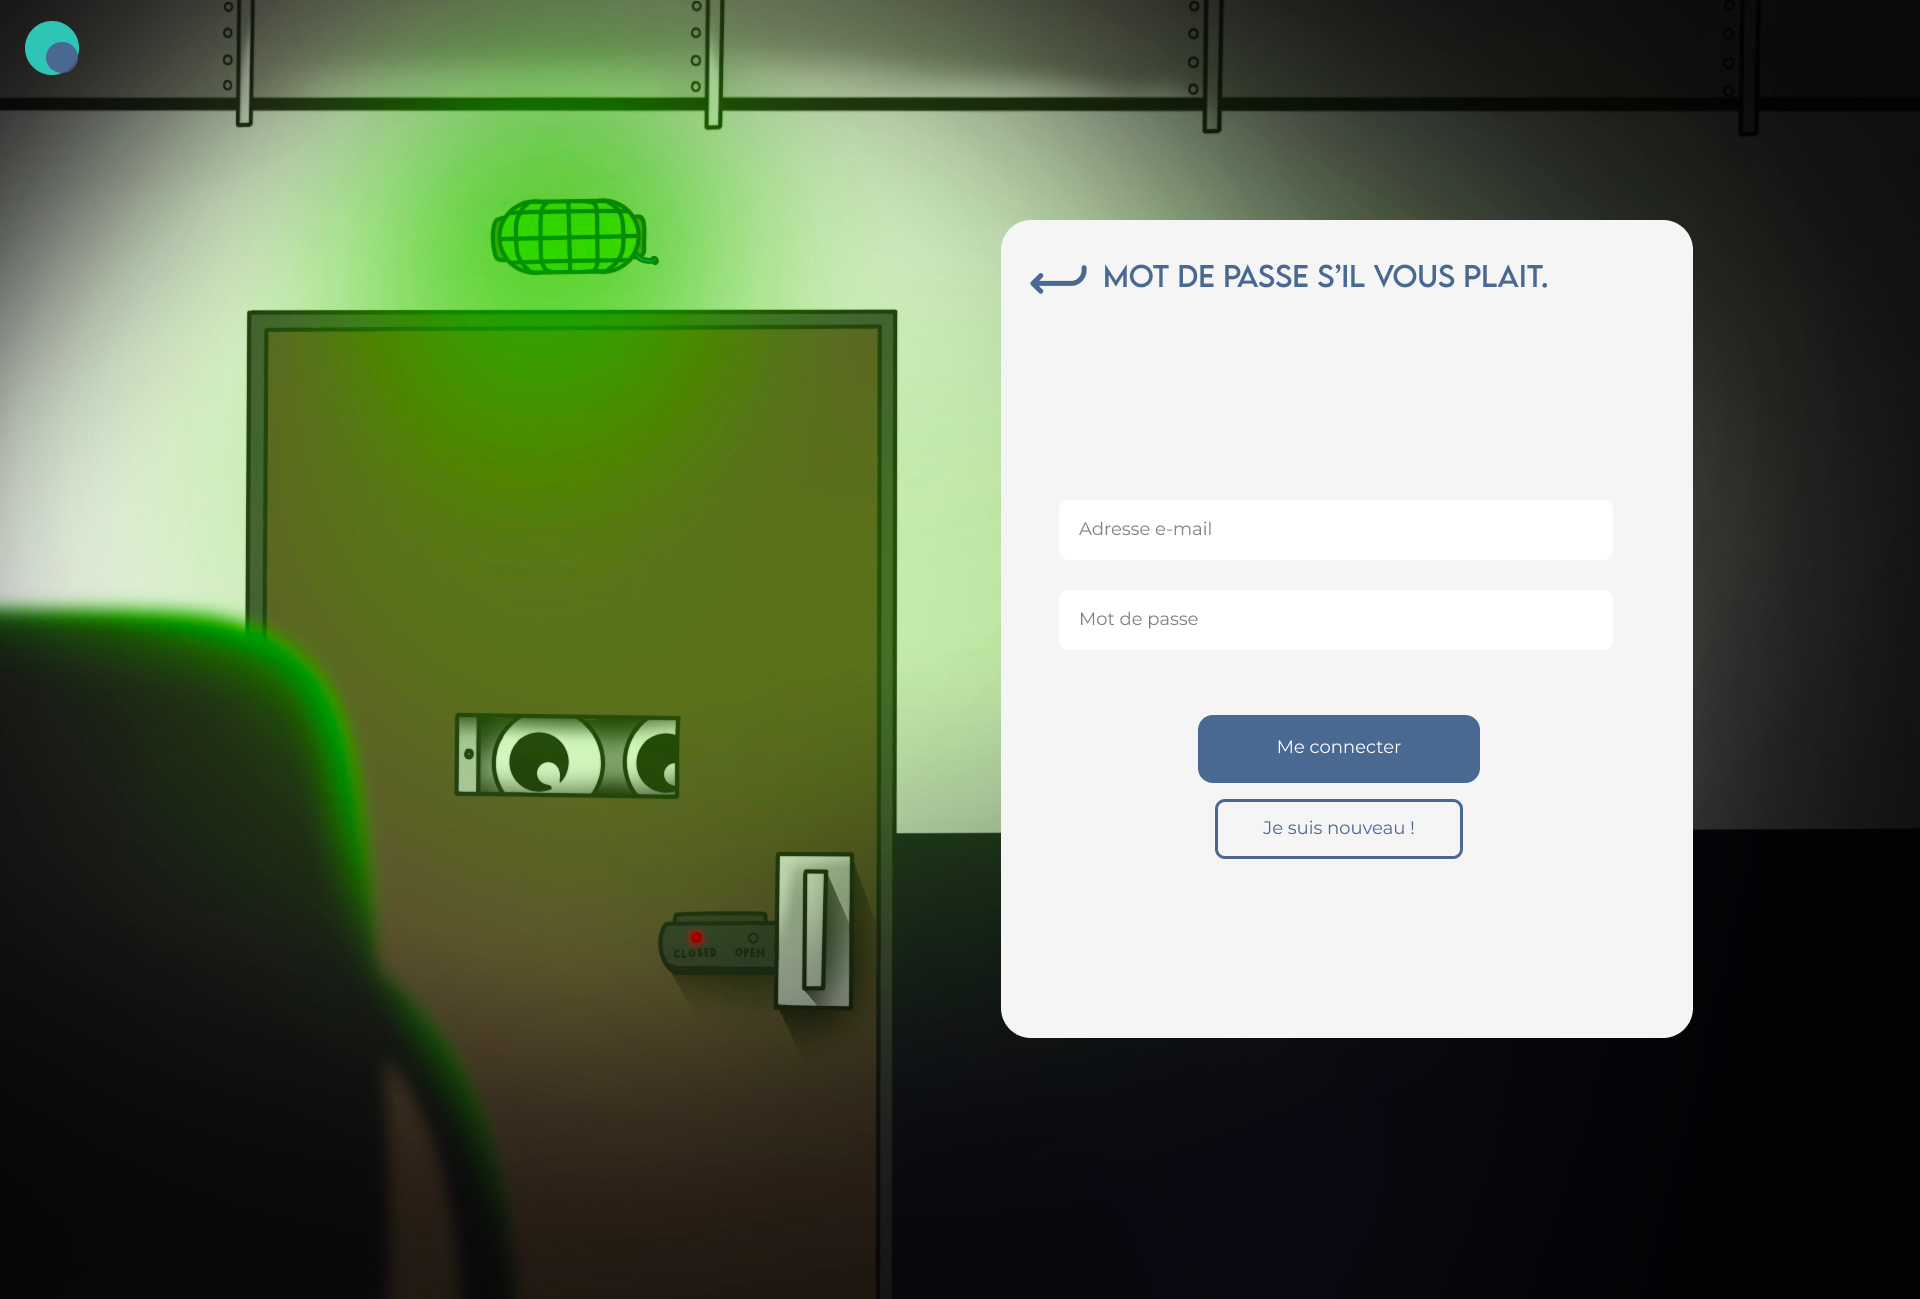
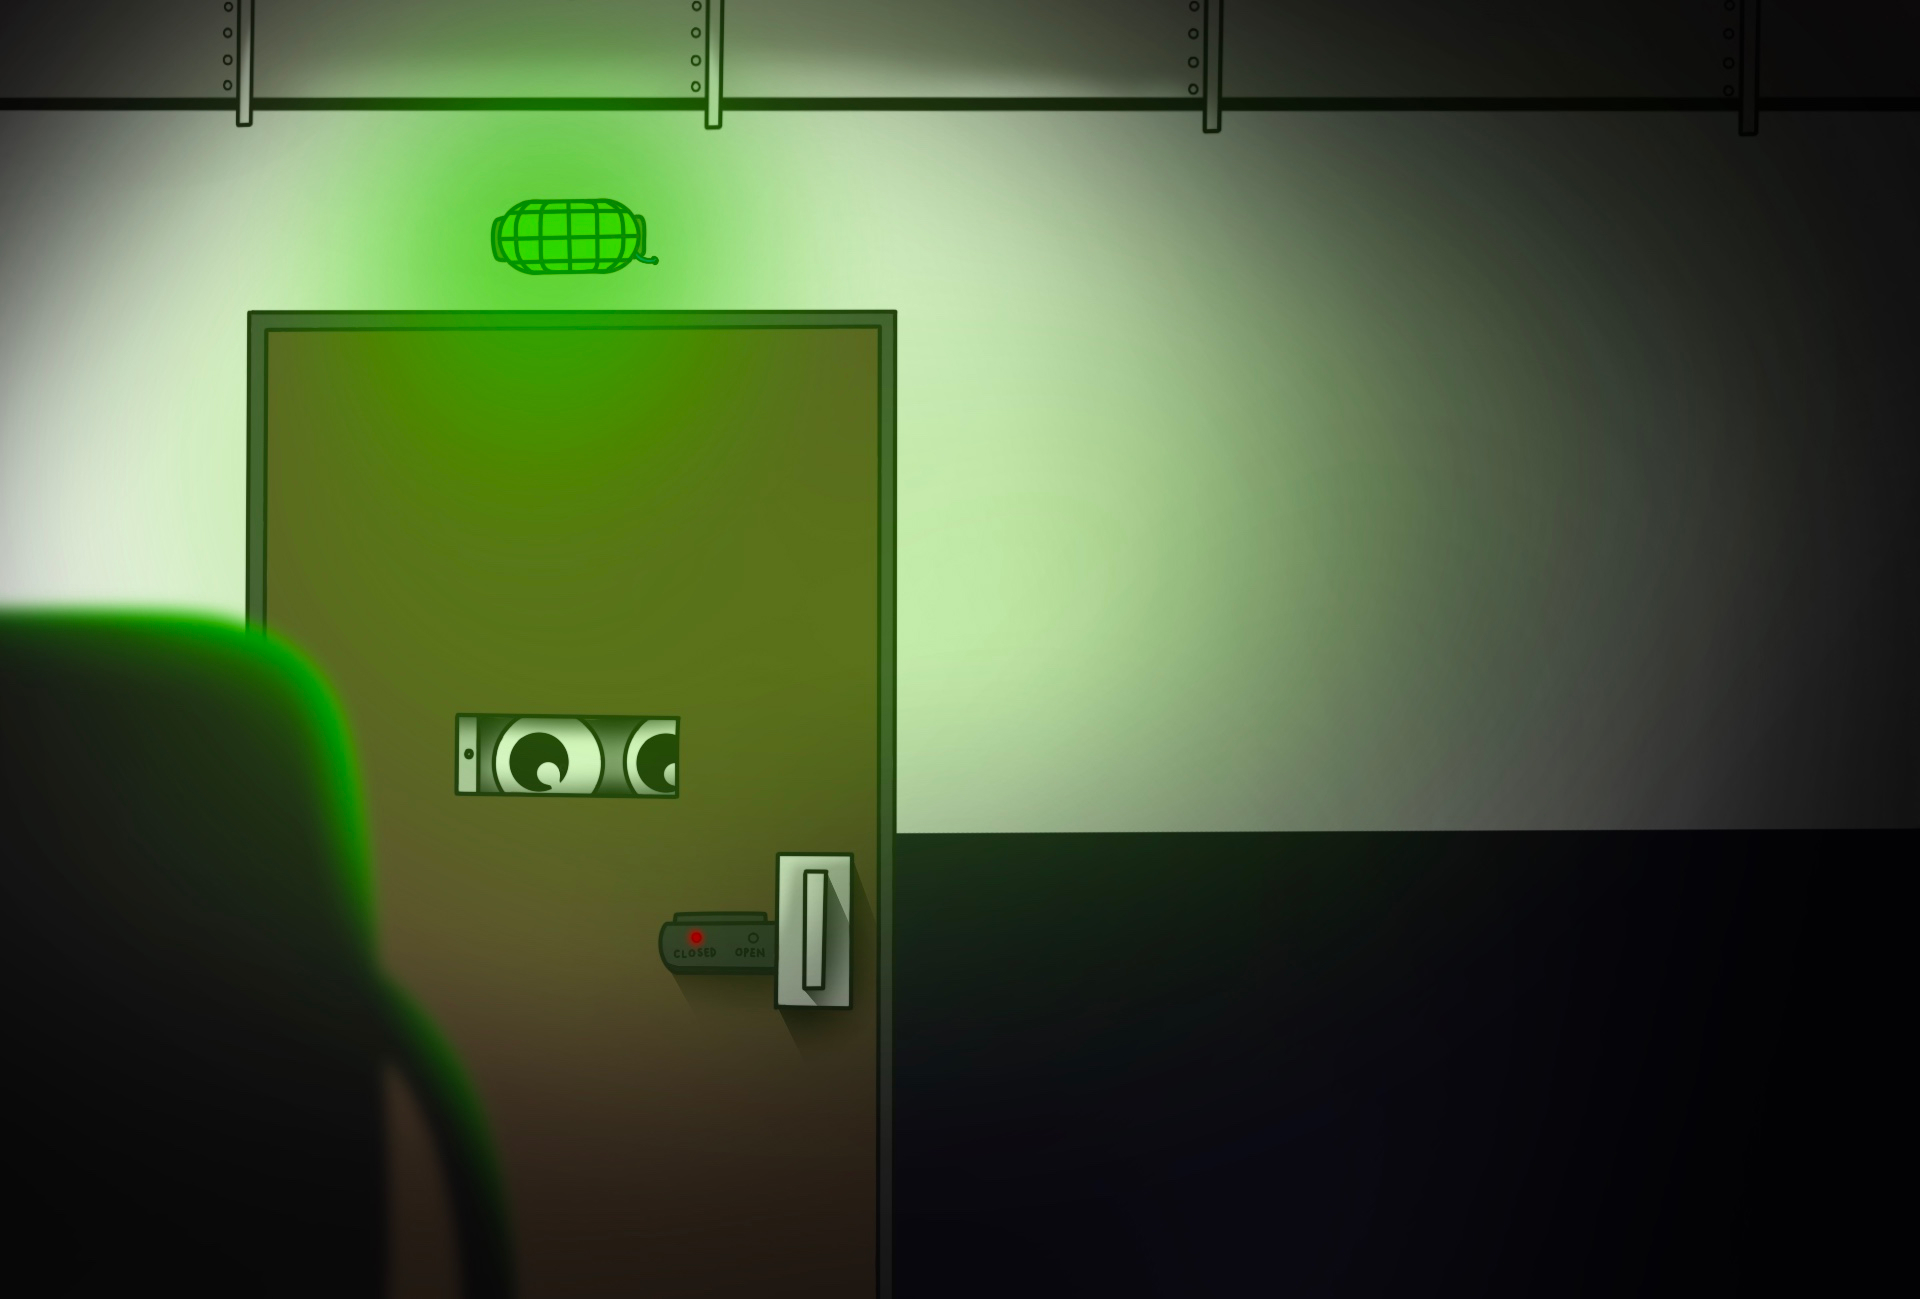
maj

Changed region(s): [[0.5, 0.154, 0.9062, 0.8006], [0.0, 0.0, 0.0625, 0.0616]]

diff --git a/assets/style_sign-in.css b/assets/style_sign-in.css
@@ -34,9 +34,15 @@ body {
     background-color: #2ec4b6;
     position: relative;
 }
+#login {
+    height: 100%;
+    width: 100%;
+    background-color: #000000;
+    position: relative;
+}
 
 .form-bloc {
-    height: 50em;
+    max-height: 50em;
     width: 43.125em;
     background-color: #f5f5f5;
     border-radius: 30px;;
@@ -48,11 +54,17 @@ body {
     left:10px;
     height: 60px;
     width: 60px;
+    z-index: 2;
 }
 
 #illustration {
     position: absolute;
     left: 10%;
+}
+#illustration2 {
+    position: absolute;
+    z-index: 1;
+    height: 100%;
 }
 
 input {
@@ -62,6 +74,13 @@ input {
     height: 60px;
     font-family: 'Montserrat', sans-serif;
     padding-left: 15px;
+    transition: all ease-in 0.2s ;
+    
+}
+input:hover {
+    transform: scale(105%);
+    -webkit-box-shadow: 0px 5px 22px -7px rgba(0,0,0,0.72); 
+    box-shadow: 0px 5px 22px -7px rgba(0,0,0,0.72);
 }
 
 input:focus {
@@ -98,7 +117,7 @@ p {
     border: solid 3px #496992;
     border-radius: 15px;
     color: #496992;
-    background:none;
+    background:#2ec4b6;
     transform: scale(110%);
 }
 .button2 {
@@ -118,4 +137,7 @@ p {
 }
 strong {
     text-decoration: underline;
+}
+a {
+    text-decoration: none;
 }

diff --git a/assets/style.css b/assets/style.css
@@ -18,10 +18,8 @@ nav {
     background: white;
 }
 #profile-picture {
-    height: 30px;
-    width: 30px;
-    border-radius: 50%;
-    background: gray;
+    height: 40px;
+    width: 40px;
 }
 .color1 {
     color: #496992;
@@ -92,6 +90,9 @@ footer {
     border-top-right-radius: 15px;
     border-top-left-radius: 15px;
 }
+.medium {
+    width: 100%;
+}
 .img-product {
     width: 100%;
     height: 60%;
@@ -104,6 +105,35 @@ footer {
     border-bottom-left-radius: 15px;
     position: relative;
 }
-
+.button1 {
+    border: solid 3px #496992;
+    border-radius: 15px;
+    padding: 15px 30px;
+    color: white;
+    background:#496992;
+    transition: all ease-in 0.2s ;
+}
+.button1:hover {
+    border: solid 3px #496992;
+    border-radius: 15px;
+    color: #496992;
+    background: #2ec4b6;
+    transform: scale(110%);
+}
+.button2 {
+    border: solid 3px #496992;
+    border-radius: 15px;
+    padding: 15px 30px;
+    color: white;
+    background:none;
+    color: #496992;
+    transition: all ease-in 0.2s;
+}
+.button2:hover {
+    border: solid 3px #496992;
+    color: white;
+    background: #496992;
+    transform: scale(110%);
+}
 
 

diff --git a/templates/homepage.php b/templates/homepage.php
@@ -11,8 +11,8 @@
     </div>
 </section>
 <section>
-    <h1 class="tilt ps-5 ms-5">NOS MEILLEURES OFFRES</h1>
-    <div class="container pt-3 pb-3">
+    <h1 class="tilt ps-5 ms-5 color1">NOS MEILLEURES OFFRES</h1>
+    <div class="container pt-5 pb-5">
         <div class="row">
             <div class="col d-flex justify-content-center">
                 <div class="card">
@@ -65,6 +65,73 @@
         </div>
     </div>
 </section>
+<section>
+    <h1 class="tilt ps-5 ms-5 color1">LES PLUS POPULAIRES</h1>
+    <div class="container pt-5 pb-5">
+        <div class="row gy-4">
+            <div class="col-6 d-flex justify-content-center">
+                <div class="card w-100">
+                    <div class="img-product">
+
+                    </div>
+                    <div class="info-product p-2 d-flex flex-column justify-content-around p-1">
+                        <span class="fs-4 montbold text-light w-100">Titre</span><br>
+                        <span class="fs-6 mont text-light w-100">Description</span><br>
+                        <span class="montbold text-end text-light w-100 fs-5 pe-3">Prix</span>
+                    </div>
+                </div>
+            </div>
+            <div class="col-6 d-flex justify-content-center">
+                <div class="card w-100">
+                    <div class="img-product">
+
+                    </div>
+                    <div class="info-product p-2 d-flex flex-column justify-content-around p-1">
+                        <span class="fs-4 montbold text-light w-100">Titre</span><br>
+                        <span class="fs-6 mont text-light w-100">Description</span><br>
+                        <span class="montbold text-end text-light w-100 fs-5 pe-3">Prix</span>
+                    </div>
+                </div>
+            </div>
+            <div class="col-4 d-flex justify-content-center">
+                <div class="card medium">
+                    <div class="img-product">
+
+                    </div>
+                    <div class="info-product p-2 d-flex flex-column justify-content-around p-1">
+                        <span class="fs-4 montbold text-light w-100">Titre</span><br>
+                        <span class="fs-6 mont text-light w-100">Description</span><br>
+                        <span class="montbold text-end text-light w-100 fs-5 pe-3">Prix</span>
+                    </div>
+                </div>
+            </div>
+            <div class="col-4 d-flex justify-content-center">
+                <div class="card medium">
+                    <div class="img-product">
+
+                    </div>
+                    <div class="info-product p-2 d-flex flex-column justify-content-around p-1">
+                        <span class="fs-4 montbold text-light w-100">Titre</span><br>
+                        <span class="fs-6 mont text-light w-100">Description</span><br>
+                        <span class="montbold text-end text-light w-100 fs-5 pe-3">Prix</span>
+                    </div>
+                </div>
+            </div>
+            <div class="col-4 d-flex justify-content-center">
+                <div class="card medium">
+                    <div class="img-product">
+
+                    </div>
+                    <div class="info-product p-2 d-flex flex-column justify-content-around p-1">
+                        <span class="fs-4 montbold text-light w-100">Titre</span><br>
+                        <span class="fs-6 mont text-light w-100">Description</span><br>
+                        <span class="montbold text-end text-light w-100 fs-5 pe-3">Prix</span>
+                    </div>
+                </div>
+            </div>
+        </div>
+    </div>
+</section>
     
 <section id="infos" class="position-relative">
     <div class="container-fluid" id="logo-background">
@@ -76,7 +143,7 @@
                 </div>
                 <p class="mont fs-4 text-light">Chez Soltech, nous mettons un point d’honneur à ce que nos relations avec nos clients se passe de manière excellente tout au long du processus d’achat.</p>
                 <span class="mont fs-3 fw-bold text-light mb-5">C'est pourquoi :</span>
-                <div class="w-100 d-flex justify-content-center align-items-center mt-5"><button class="lex">Contactez-nous</button></div>
+                <div class="w-100 d-flex justify-content-center align-items-center mt-5"><button class="lex button2">Contactez-nous</button></div>
             </div>
             <div class="col-8">
                 <div class="row">

diff --git a/templates/login.php b/templates/login.php
@@ -11,9 +11,9 @@
     <link href="../assets/style_sign-in.css" rel="stylesheet" />
 </head>
   <body>
-      <section id="sign-in">
-         <img src="../admin/assets/icons/logo-info.svg" id="logo_sign">
-         <img src="../assets/img/inscription-bg.png" id="illustration">
+      <section id="login">
+         <img src="../admin/assets/icons/Logo.svg" id="logo_sign">
+         <img src="../assets/img/Connexion-bg.png" id="illustration2">
           <div class="container-fluid h-100">
               <div class="row h-100">
                   <div class="col d-flex align-items-center" style="margin-left: 50%">
@@ -22,25 +22,16 @@
                           <div class="container-fluid h-100 p-3">
                             <div class="row gy-3">
                                 <div class="col-12 d-flex align-items-center gap-3 mb-5">
-                                <a href="../public/index.php?page=homepage"><img src="../assets/icons/return-down-back.svg"></a>
-                                    <h1 class="tilt color1 fs-2">NOUVEAU CLIENT ? PAR ICI.</h1>
+                                    <a href="../public/index.php?page=homepage"><img src="../assets/icons/return-down-back.svg"></a>
+                                    <h1 class="tilt color1 fs-2">MOT DE PASSE S'IL VOUS PLAIT.</h1>
                                 </div>
                                 <div class="col-12 d-flex flex-column align-items-center">
-                                  <input name="surname" type="text" placeholder="Prénom"><br>
-                                  <input name="name" type="text" placeholder="Nom"><br>
                                   <input name="mail" type="text" placeholder="Adresse e-mail"><br>
                                   <input name="password" type="password" placeholder="Mot de passe"><br>
                                 </div>
-                                <div class="col-12 d-flex flex-column align-items-center justify-content-center gap-3 ps-5 pe-5">
-                                  <div class="form-check">
-                                    <input class="form-check-input" type="checkbox" value="" id="flexCheckDefault">
-                                    <label class="form-check-label opacity-50" for="flexCheckDefault">J'accepte de recevoir les meilleurs plan et la newsletter par mail.</label>
-                                  </div>
-                                  <p class="text-center mont">En créant un compte vous acceptez les <strong>Conditions générales d'utilisation</strong> , les <strong>Conditions générales de ventes</strong> et la <strong>Politique de Confidentialité</strong> de <strong>Soltech</strong> et affirmez avoir plus de 16 ans.</p>
-                                </div>
-                                <div class="col-12 d-flex flex-column align-items-center justify-content-center gap-3">
-                                  <button class="button1 montbold">M'inscrire</button>
-                                  <a href="../public/index.php?page=login" class="button2 montbold">J'ai déjà un compte<a></a>
+                                <div class="col-12 d-flex flex-column align-items-center justify-content-center gap-3 mb-3">
+                                  <button class="button1 montbold">Me connecter</button>
+                                  <a href="../public/index.php?page=sign-in" class="button2 montbold">Je suis nouveau<a></a>
                                 </div>
                             </div>
                           </div>

diff --git a/templates/layout.php b/templates/layout.php
@@ -22,7 +22,7 @@
                 </div>
                 <div class="col-4 d-flex align-items-center justify-content-end gap-3">
                     <a href=""><img src="../admin/assets/icons/cart.svg"></a>
-                    <a href="../public/index.php?page=sign-in"><div id="profile-picture"></div></a>
+                    <a href="../public/index.php?page=login"><img src="../admin/assets/icons/user.svg" id="profile-picture"></img></a>
                 </div>
             </div>
         </div>
@@ -35,7 +35,7 @@
                     <ul class="d-flex justify-content-between w-100 h-100 align-items-center montbold  fs-6 color1">
                         <a href="../public/index.php?page=homepage" class="color1"><li>ARTICLES</li></a>
                         <a href="../public/index.php?page=homepage" class="color1"><li>ACCUEIL</li></a>
-                        <a href="../public/index.php?page=homepage" class="color1"><li>CATEGORIE</li></a>
+                        <a href="../public/index.php?page=categories" class="color1"><li>CATEGORIE</li></a>
                     </ul>
                 </div>
                 <div class="col-4 d-flex justify-content-end align-items-center">

diff --git a/public/index.php b/public/index.php
@@ -8,6 +8,8 @@ try {
     //Controllers
     require_once('../controllers/homepage.php');
     require_once('../controllers/sign_in.php');
+    require_once('../controllers/login.php');
+    require_once('../controllers/categories.php');
     
     // if(!isset($_SESSION['id']) || !isset($_SESSION['nickname'])) {
     
@@ -23,7 +25,13 @@ try {
         elseif ($page == "sign-in") {
             displaySignIn();
         }
-
+        elseif ($page == "login") {
+            displayLogIn();
+        }
+        elseif ($page == "categories") {
+            displayCategories();
+        }
+        
     } else {
         displayHomepage();
     }

diff --git a/controllers/categories.php b/controllers/categories.php
@@ -1,0 +1,11 @@
+<?php
+
+require_once('../model/db.php');
+require_once('../admin/model/categorie_managment.php');
+
+
+function displayCategories() {
+    $categories = getCategories();
+    require('../templates/categories.php');
+
+}

diff --git a/controllers/homepage.php b/controllers/homepage.php
@@ -2,8 +2,10 @@
 
 
 require_once('../model/db.php');
+require_once('../admin/model/product_managment.php');
 
 
 function displayHomepage() {
     require('../templates/homepage.php');
+    $products = getProducts();
 }

diff --git a/templates/categories.php b/templates/categories.php
@@ -1,0 +1,7 @@
+<?php $title = "Catégories"; ?>
+<?php ob_start(); ?>
+
+
+
+<?php $content = ob_get_clean();?>
+<?php require('../templates/layout.php') ?>

diff --git a/controllers/login.php b/controllers/login.php
@@ -1,0 +1,8 @@
+<?php 
+
+require_once('../model/db.php');
+
+
+function displayLogIn() {
+    require('../templates/login.php');
+}
